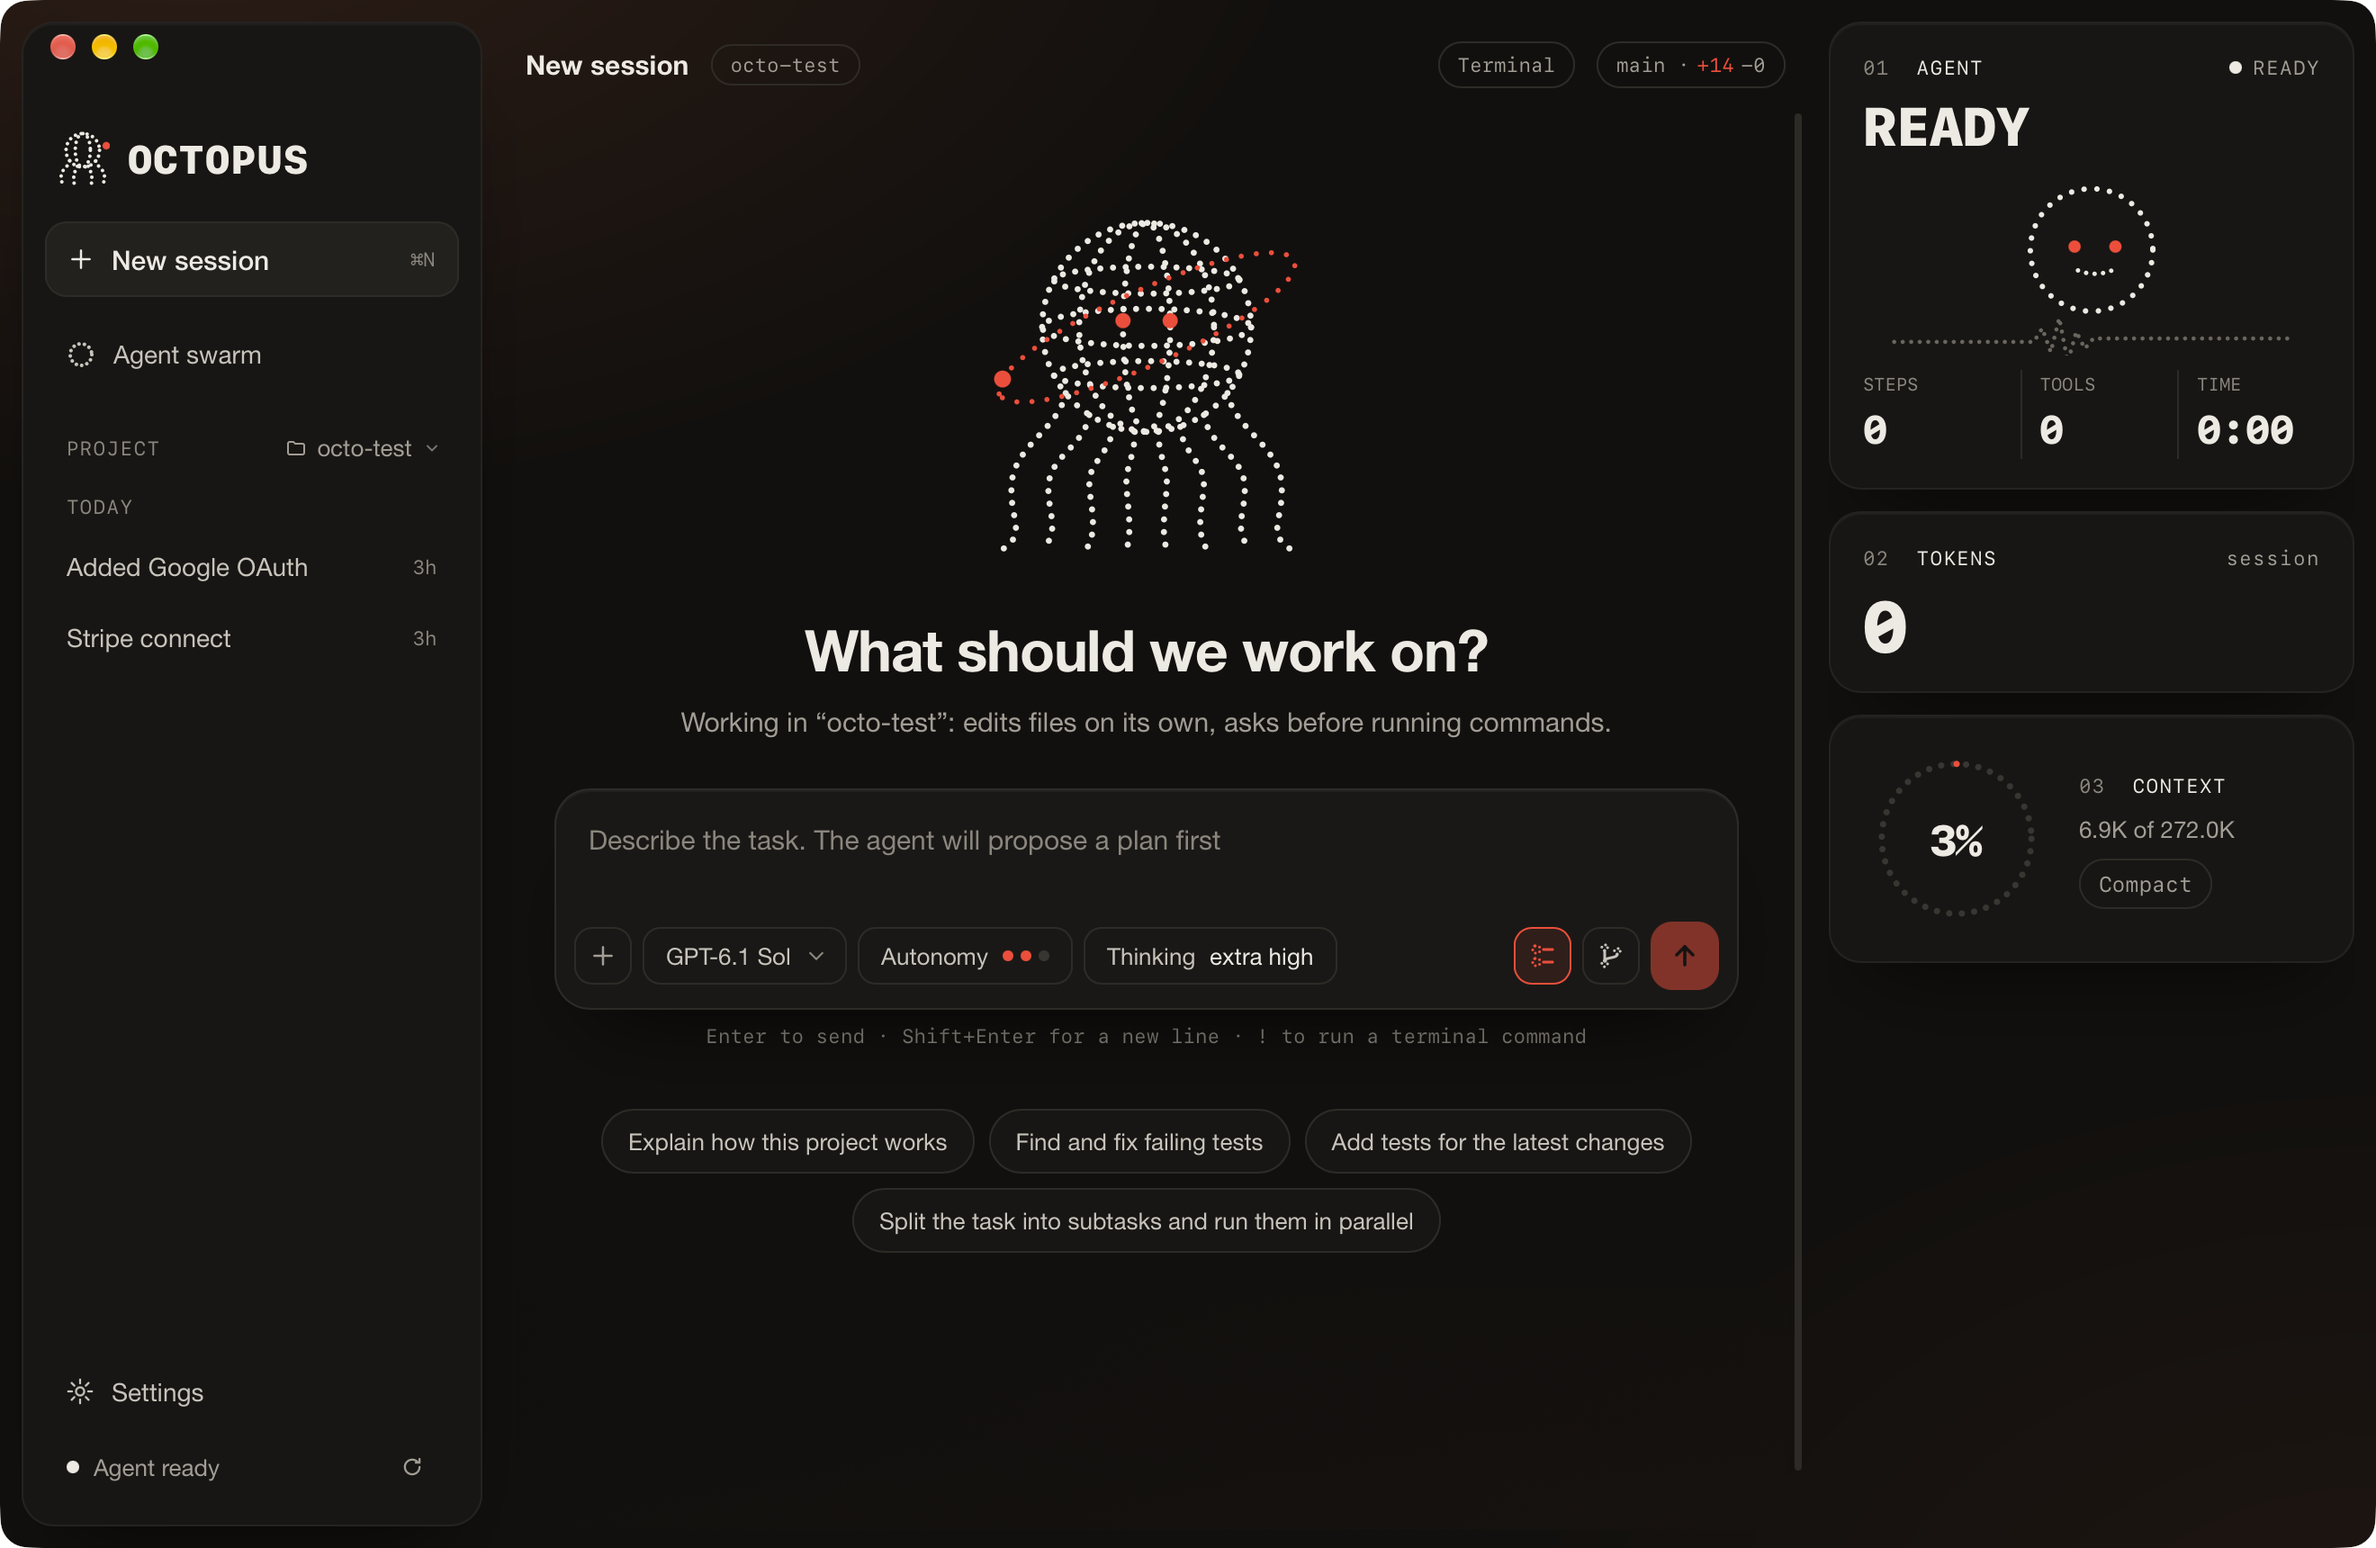
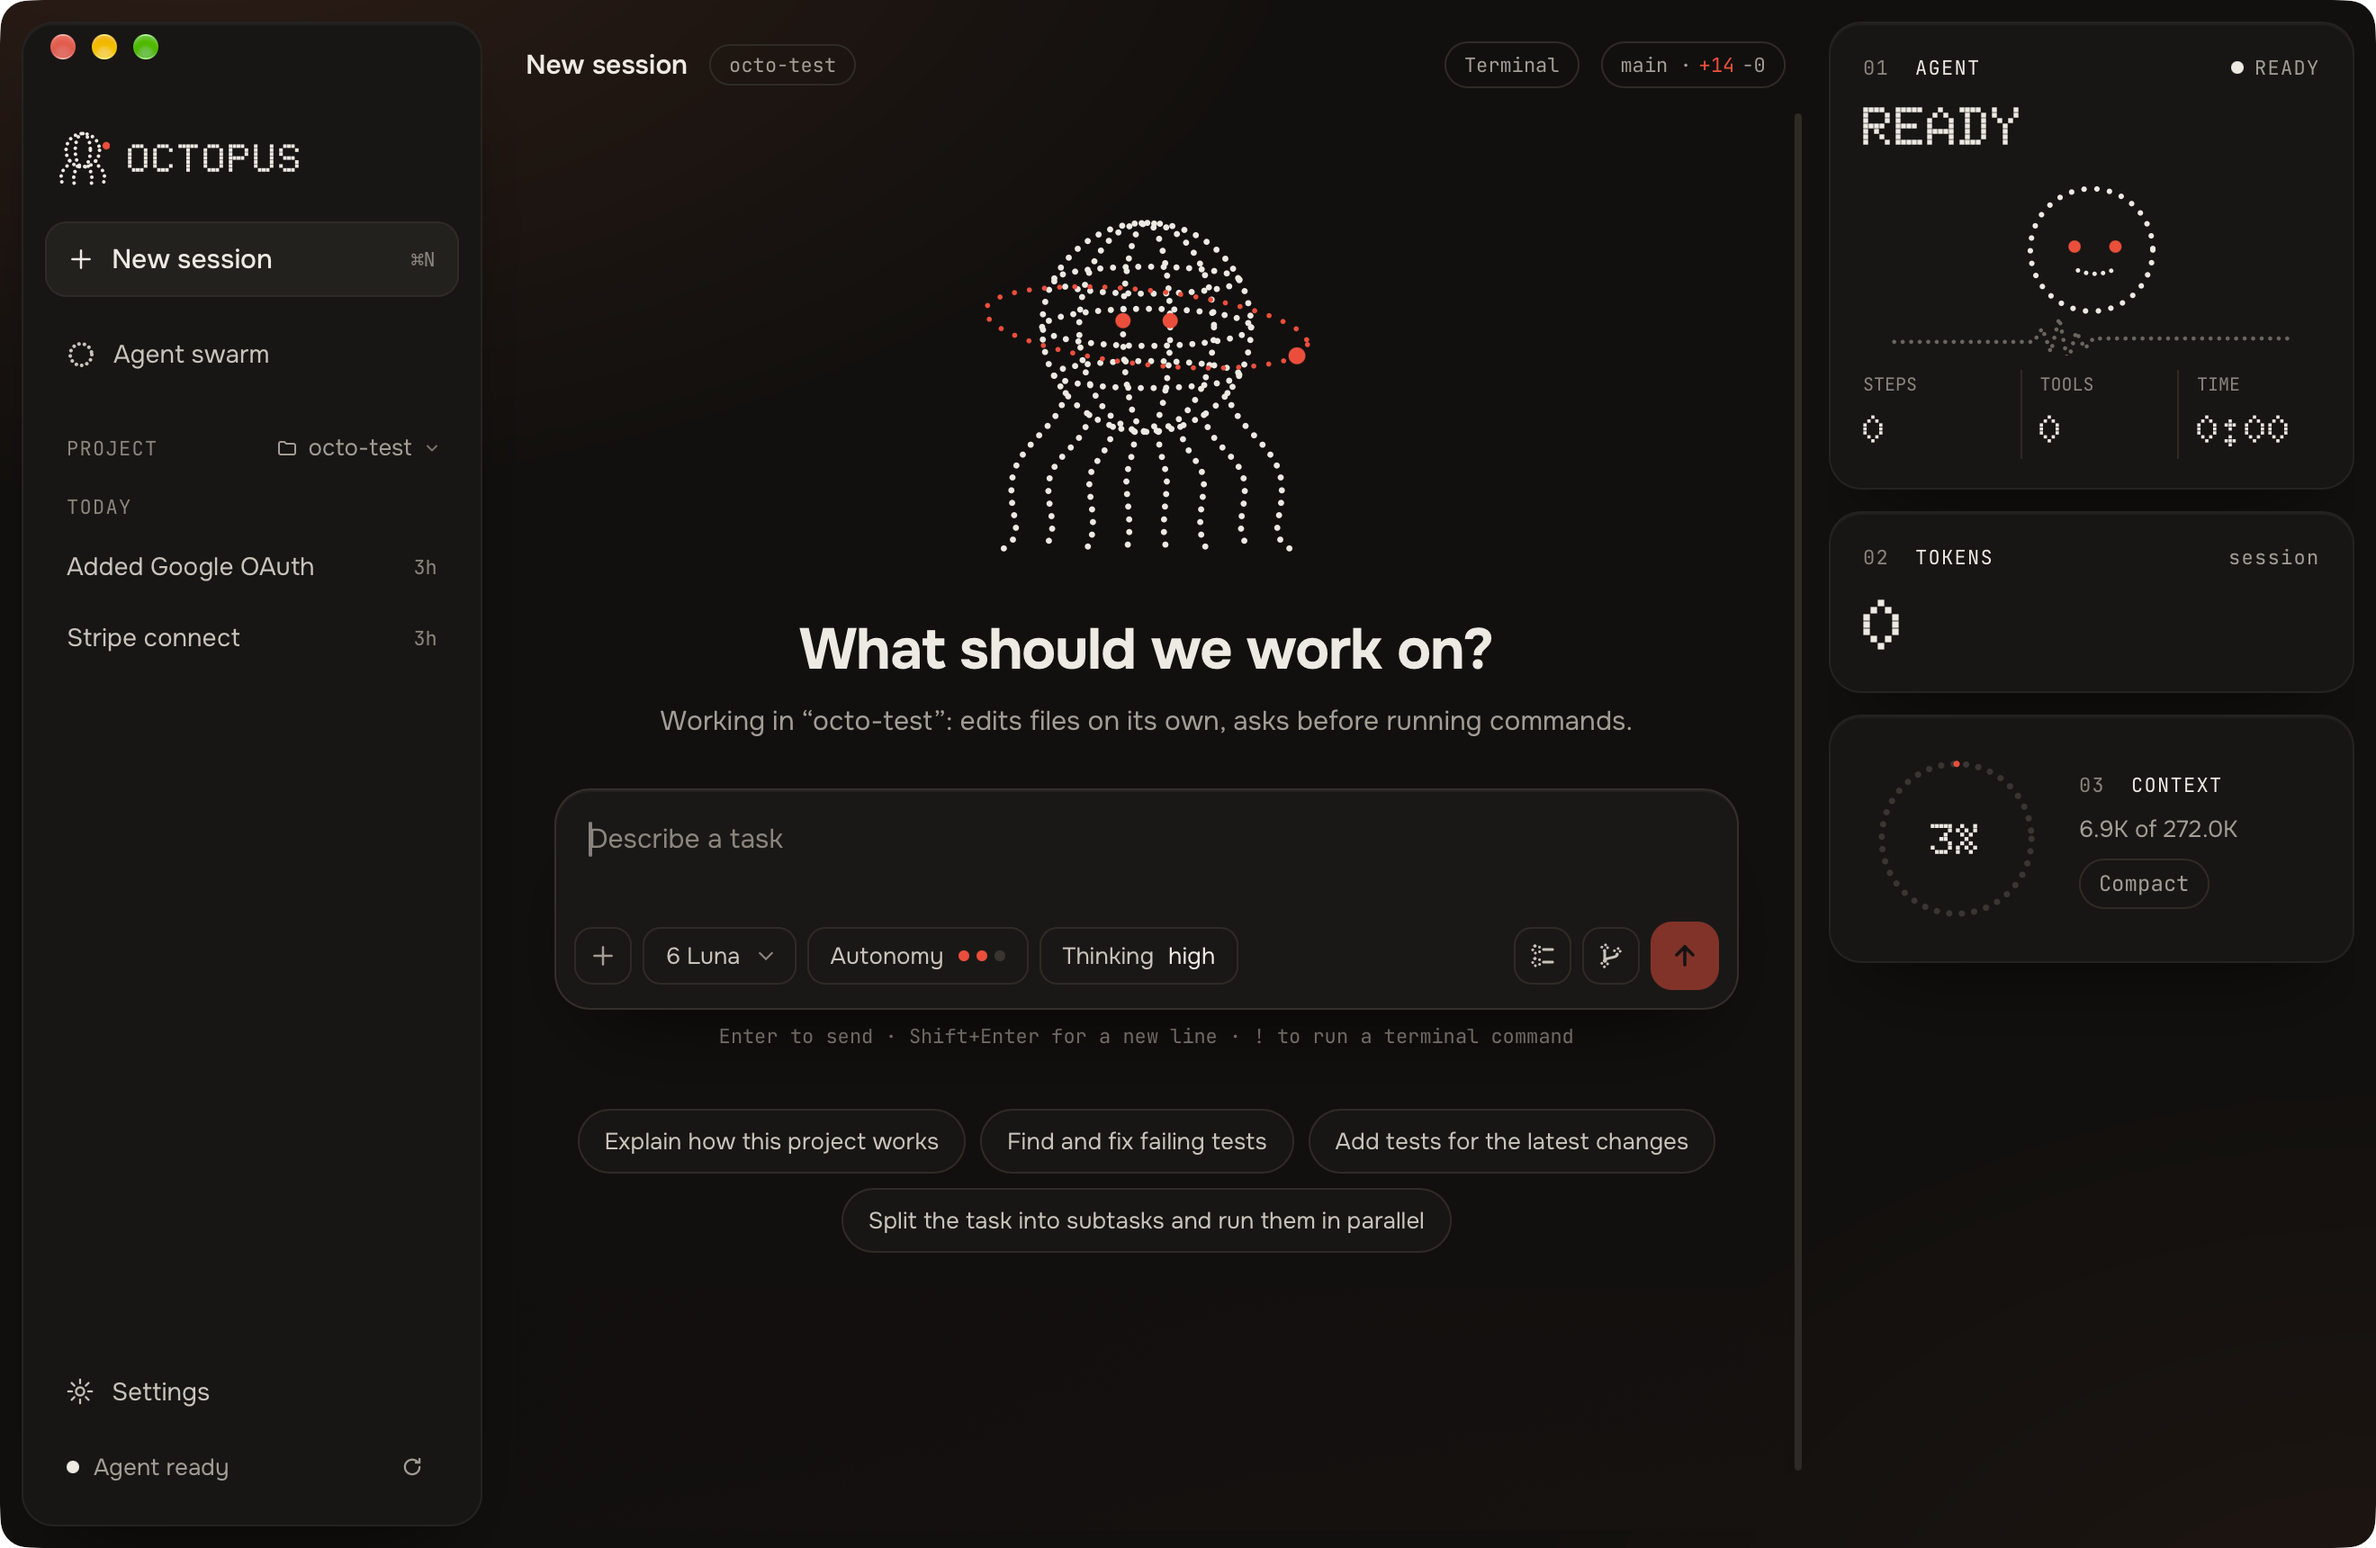
docs: add localized screenshots to the READMEs (#8)
English and Russian READMEs now show the window in their own language.

diff --git a/README.ru.md b/README.ru.md
@@ -23,7 +23,7 @@
 > и ломающие изменения. Issues и обратная связь очень приветствуются.
 
 <p align="center">
-  <img src="docs/assets/screenshot.png" alt="Главное окно Octopus AI: чат, плитки агента, счётчик контекста" width="100%">
+  <img src="docs/assets/screenshot.ru.png" alt="Главное окно Octopus AI: чат, плитки агента, счётчик контекста" width="100%">
 </p>
 
 ## Что умеет
